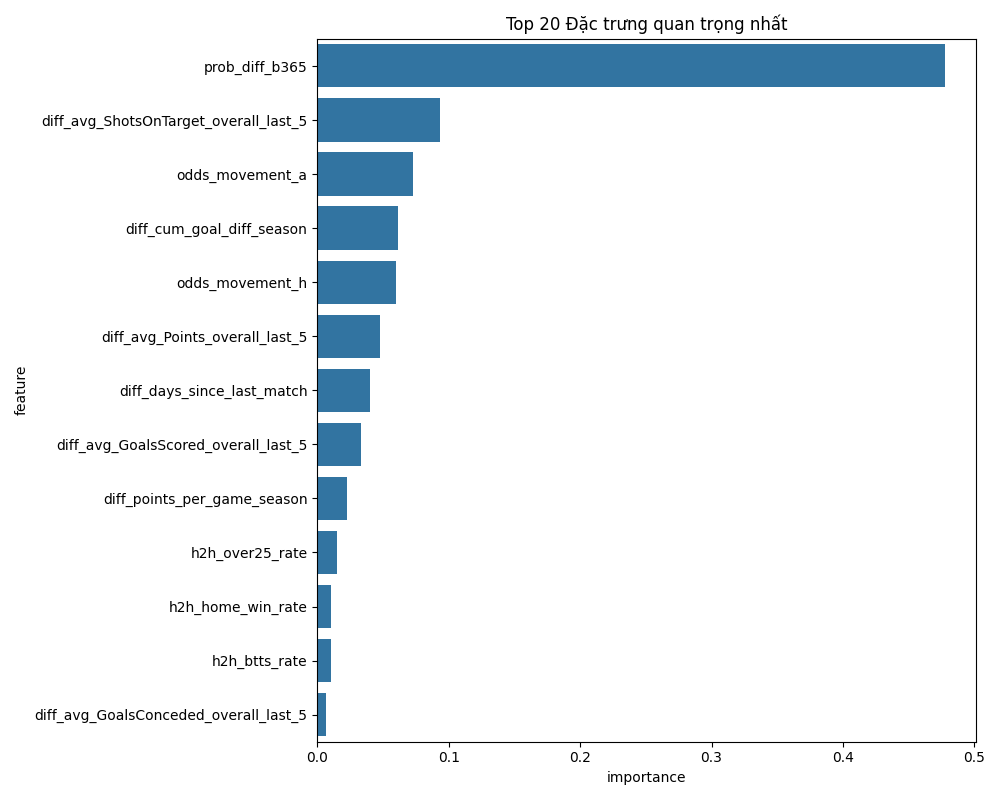
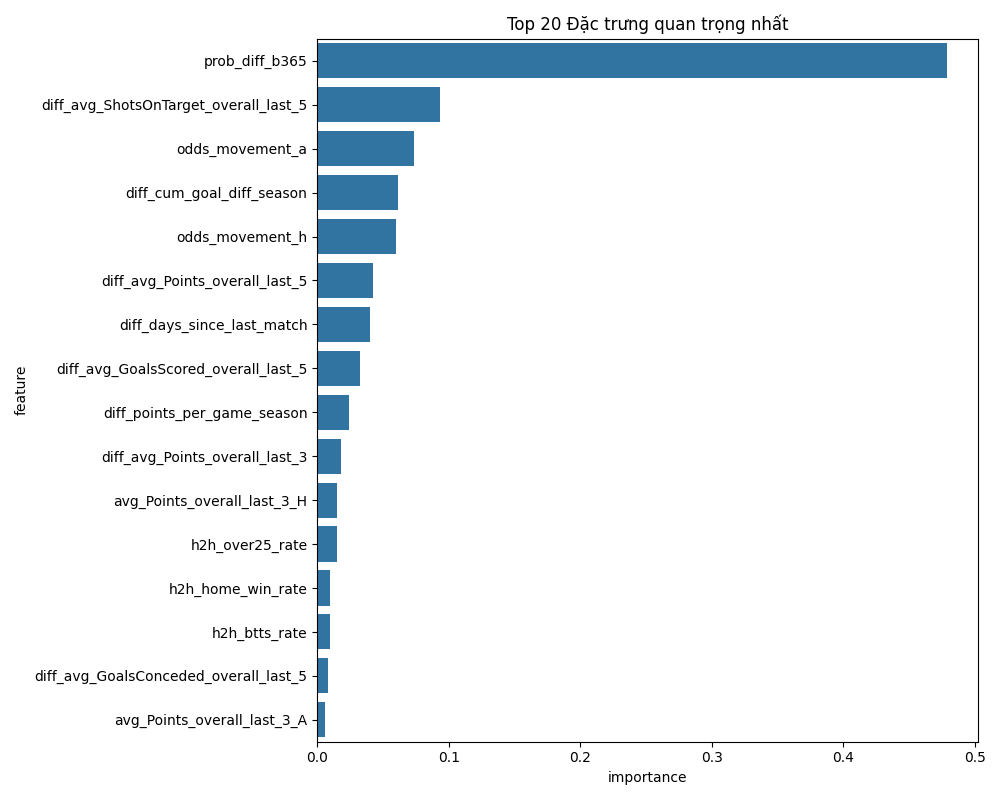
DONE

diff --git a/ai-engine/scripts/predict_new_match.py b/ai-engine/scripts/predict_new_match.py
@@ -1,0 +1,212 @@
+# filename: predict_new_match.py
+
+import pandas as pd
+import numpy as np
+import joblib
+from pathlib import Path
+
+# --- CẤU HÌNH ---
+# Giả sử script này nằm trong thư mục gốc của dự án
+BASE_DIR = Path(__file__).resolve().parent
+PROCESSED_DATA_DIR = BASE_DIR / "data" / "processed"
+MODEL_DIR = BASE_DIR / "models"
+BEST_MODEL_DIR = MODEL_DIR / "best_models"
+
+# ---------------------------------------------------------------------------- #
+#  CÁC HÀM TẠO ĐẶC TRƯNG - SAO CHÉP TỪ CÁC SCRIPT TRƯỚC ĐỂ ĐẢM BẢO TÍNH NHẤT QUÁN  #
+# ---------------------------------------------------------------------------- #
+
+# Các hàm từ 03_create_basic_features.py (hoặc 04 theo cách đánh số cũ)
+def create_betting_features(df):
+    odds_sources = {'b365': ['B365H', 'B365D', 'B365A'], 'ps_close': ['PSCH', 'PSCD', 'PSCA'], 'ps_open': ['PSH', 'PSD', 'PSA']}
+    for source, cols in odds_sources.items():
+        H, D, A = cols[0], cols[1], cols[2]
+        if all(c in df.columns for c in cols):
+            prob_h, prob_d, prob_a = f'prob_{source}_h', f'prob_{source}_d', f'prob_{source}_a'
+            df[prob_h], df[prob_d], df[prob_a] = 1/df[H], 1/df[D], 1/df[A]
+            df[f'margin_{source}'] = df[[prob_h, prob_d, prob_a]].sum(axis=1) - 1
+            df[f'prob_diff_{source}'] = df[prob_h] - df[prob_a]
+    if all(c in df.columns for c in ['PSCH', 'PSH']): df['odds_movement_h'] = df['PSCH'] - df['PSH']
+    if all(c in df.columns for c in ['PSCD', 'PSD']): df['odds_movement_d'] = df['PSCD'] - df['PSD']
+    if all(c in df.columns for c in ['PSCA', 'PSA']): df['odds_movement_a'] = df['PSCA'] - df['PSA']
+    return df
+
+def create_time_features(df):
+    df['date_month'] = df['Date'].dt.month
+    df['date_day_of_week'] = df['Date'].dt.dayofweek
+    df['date_is_weekend'] = (df['date_day_of_week'] >= 5).astype(int)
+    def get_season_stage(month):
+        if month in [8, 9, 10]: return 'early';
+        elif month in [11, 12, 1, 2]: return 'mid';
+        else: return 'late'
+    df['season_stage'] = df['date_month'].apply(get_season_stage)
+    df = pd.get_dummies(df, columns=['season_stage'], prefix='stage', dtype=int)
+    return df
+
+# Các hàm từ 04_create_advanced_features.py
+def get_team_level_data(df):
+    df['home_win'] = (df['FTR'] == 'H').astype(int)
+    df['away_win'] = (df['FTR'] == 'A').astype(int)
+    df['is_draw'] = (df['FTR'] == 'D').astype(int)
+    df['btts'] = ((df['FTHG'] > 0) & (df['FTAG'] > 0)).astype(int)
+    df['over_2_5'] = (df['FTHG'] + df['FTAG'] > 2.5).astype(int)
+    common_cols = ['Date', 'Season', 'FTR', 'home_win', 'away_win', 'is_draw', 'btts', 'over_2_5']
+    home_cols, away_cols = common_cols + ['HomeTeam', 'AwayTeam', 'FTHG', 'FTAG', 'HS', 'AS', 'HST', 'AST'], common_cols + ['AwayTeam', 'HomeTeam', 'FTAG', 'FTHG', 'AS', 'HS', 'AST', 'HST']
+    home_df, away_df = df[home_cols].copy(), df[away_cols].copy()
+    new_col_names = ['Date', 'Season', 'FTR', 'home_win', 'away_win', 'is_draw', 'btts', 'over_2_5', 'Team', 'Opponent', 'GoalsScored', 'GoalsConceded', 'Shots', 'ShotsAllowed', 'ShotsOnTarget', 'ShotsOnTargetAllowed']
+    home_df.columns, away_df.columns = new_col_names, new_col_names
+    home_df['Venue'], away_df['Venue'] = 'H', 'A'
+    home_df['Points'], away_df['Points'] = np.where(home_df['FTR'] == 'H', 3, np.where(home_df['FTR'] == 'D', 1, 0)), np.where(away_df['FTR'] == 'A', 3, np.where(away_df['FTR'] == 'D', 1, 0))
+    home_df['Win'], away_df['Win'] = home_df['home_win'], away_df['away_win']
+    home_df['CleanSheet'], away_df['CleanSheet'] = (home_df['GoalsConceded'] == 0).astype(int), (away_df['GoalsConceded'] == 0).astype(int)
+    team_df = pd.concat([home_df, away_df], ignore_index=True).sort_values(['Team', 'Date']).reset_index(drop=True)
+    return team_df
+
+def calculate_rolling_features(team_df, windows=[5, 10], venue_specific=False):
+    group_cols, prefix = ['Team'], 'overall'
+    if venue_specific: group_cols.append('Venue'); prefix = 'venue'
+    cols_to_roll = ['GoalsScored', 'GoalsConceded', 'Points', 'Win', 'Shots', 'ShotsOnTarget', 'CleanSheet']
+    for window in windows:
+        for col in cols_to_roll:
+            team_df[f'avg_{col}_{prefix}_last_{window}'] = team_df.groupby(group_cols)[col].transform(lambda x: x.rolling(window, min_periods=1).mean().shift(1))
+    return team_df
+
+def calculate_cumulative_features(team_df):
+    team_df['matches_played_season'] = team_df.groupby(['Season', 'Team']).cumcount()
+    team_df['points_per_game_season'] = team_df.groupby(['Season', 'Team'])['Points'].transform(lambda x: x.expanding().mean().shift(1))
+    team_df['goal_diff_season'] = (team_df['GoalsScored'] - team_df['GoalsConceded'])
+    team_df['cum_goal_diff_season'] = team_df.groupby(['Season', 'Team'])['goal_diff_season'].transform(lambda x: x.expanding().sum().shift(1))
+    team_df['days_since_last_match'] = team_df.groupby('Team')['Date'].diff().dt.days
+    return team_df
+
+def create_h2h_features(df):
+    df['matchup'] = df.apply(lambda row: tuple(sorted((row['HomeTeam'], row['AwayTeam']))), axis=1)
+    h2h_stats = df.copy().sort_values('Date')
+    h2h_stats['h2h_matches_played'] = h2h_stats.groupby('matchup').cumcount()
+    if h2h_stats['h2h_matches_played'].sum() > 0:
+        h2h_stats['h2h_home_win_rate'] = (h2h_stats.groupby('matchup')['home_win'].cumsum().shift(1) / h2h_stats['h2h_matches_played'])
+        h2h_stats['h2h_btts_rate'] = (h2h_stats.groupby('matchup')['btts'].cumsum().shift(1) / h2h_stats['h2h_matches_played'])
+        h2h_stats['h2h_over25_rate'] = (h2h_stats.groupby('matchup')['over_2_5'].cumsum().shift(1) / h2h_stats['h2h_matches_played'])
+    h2h_cols_to_merge = [col for col in h2h_stats.columns if 'h2h_' in col]
+    key_cols = ['Date', 'HomeTeam', 'AwayTeam']
+    df = pd.merge(df, h2h_stats[key_cols + h2h_cols_to_merge], on=key_cols, how='left')
+    return df
+
+# Hàm từ 05_create_composite_features.py
+def create_difference_features(df):
+    home_cols = [col for col in df.columns if col.endswith('_H')]
+    for col_h in home_cols:
+        col_base, col_a = col_h[:-2], f'{col_h[:-2]}_A'
+        if col_a in df.columns: df[f'diff_{col_base}'] = df[col_h] - df[col_a]
+    return df
+
+# ------------------------------------------------------------------------- #
+#              HÀM DỰ ĐOÁN CHÍNH (THE INFERENCE PIPELINE)                   #
+# ------------------------------------------------------------------------- #
+
+def predict_match(home_team: str, away_team: str, match_date_str: str, historical_df: pd.DataFrame):
+    """
+    Dự đoán kết quả cho một trận đấu mới.
+    """
+    print(f"\n--- Bắt đầu dự đoán cho trận: {home_team} vs {away_team} vào ngày {match_date_str} ---")
+    
+    # 1. Chuẩn bị dữ liệu
+    match_date = pd.to_datetime(match_date_str)
+    # Lấy TẤT CẢ dữ liệu lịch sử TRƯỚC ngày trận đấu
+    df_history = historical_df[historical_df['Date'] < match_date].copy()
+    
+    # Tạo một dòng dữ liệu tạm cho trận đấu mới để nối vào cuối
+    new_match_data = {'Date': [match_date], 'HomeTeam': [home_team], 'AwayTeam': [away_team]}
+    new_match_df = pd.DataFrame(new_match_data)
+    
+    # Nối trận mới vào cuối dữ liệu lịch sử để tính toán
+    full_df = pd.concat([df_history, new_match_df], ignore_index=True)
+    
+    # 2. Tái tạo lại toàn bộ quy trình Feature Engineering
+    print("   -> Tái tạo các đặc trưng...")
+    
+    # Lấy các odds gần nhất cho trận đấu mới (giả định)
+    # Trong thực tế, bạn sẽ lấy odds từ API
+    last_home_odds = df_history[df_history['HomeTeam'] == home_team].iloc[-1]
+    last_away_odds = df_history[df_history['AwayTeam'] == away_team].iloc[-1]
+    odds_cols = [c for c in df_history.columns if any(p in c for p in ['B365', 'PSH', 'PSD', 'PSA', 'PSCH', 'PSCD', 'PSCA'])]
+    for col in odds_cols:
+        # Ưu tiên lấy odds từ lần gần nhất đội đó đá
+        if col.startswith(('B365H', 'PSH', 'PSCH')):
+            full_df.loc[full_df.index[-1], col] = last_home_odds[col]
+        elif col.startswith(('B365A', 'PSA', 'PSCA')):
+            full_df.loc[full_df.index[-1], col] = last_away_odds[col]
+        else: # B365D, PSD
+            full_df.loc[full_df.index[-1], col] = last_home_odds[col]
+
+    full_df = create_betting_features(full_df)
+    
+    team_df = get_team_level_data(full_df)
+    team_df = calculate_rolling_features(team_df, windows=[5, 10], venue_specific=False)
+    team_df = calculate_rolling_features(team_df, windows=[5, 10], venue_specific=True)
+    team_df = calculate_cumulative_features(team_df)
+    
+    feature_cols = [col for col in team_df.columns if any(p in col for p in ['avg_', 'cum_', 'matches_played', 'points_per_game', 'days_since'])]
+    team_features = team_df[['Date', 'Team'] + feature_cols].drop_duplicates(subset=['Date', 'Team'], keep='last')
+    
+    full_df = pd.merge(full_df, team_features, left_on=['Date', 'HomeTeam'], right_on=['Date', 'Team'], how='left').rename(columns={col: f'{col}_H' for col in feature_cols}).drop(columns='Team')
+    full_df = pd.merge(full_df, team_features, left_on=['Date', 'AwayTeam'], right_on=['Date', 'Team'], how='left').rename(columns={col: f'{col}_A' for col in feature_cols}).drop(columns='Team')
+    
+    full_df = create_h2h_features(full_df)
+    full_df = create_difference_features(full_df)
+    full_df.fillna(0, inplace=True)
+
+    # 3. Trích xuất dòng đặc trưng cuối cùng cho trận đấu mới
+    match_features = full_df.iloc[-1:]
+    
+    # 4. Tải mô hình và dự đoán
+    print("   -> Tải mô hình và đưa ra dự đoán...")
+    pipeline = joblib.load(BEST_MODEL_DIR / "best_lr_pipeline.pkl")
+    le = joblib.load(MODEL_DIR / "baseline_models" / "label_encoder.pkl")
+    
+    X_predict = match_features.drop(columns=['Date', 'HomeTeam', 'AwayTeam', 'FTR', 'FTHG', 'FTAG', 'Season', 'btts', 'over_2_5', 'home_win', 'away_win', 'is_draw', 'matchup'], errors='ignore')
+    
+    # Đảm bảo các cột của X_predict khớp với các cột mô hình đã được huấn luyện
+    # Lấy danh sách cột từ scaler trong pipeline
+    trained_cols = pipeline.named_steps['scaler'].get_feature_names_out()
+    X_predict = X_predict[trained_cols]
+    
+    probabilities = pipeline.predict_proba(X_predict)[0]
+    
+    # 5. Trình bày kết quả
+    results = {label: prob for label, prob in zip(le.classes_, probabilities)}
+    
+    print("\n--- KẾT QUẢ DỰ ĐOÁN ---")
+    for outcome, prob in results.items():
+        print(f"   Xác suất cho kết quả '{outcome}': {prob:.2%}")
+        
+    predicted_outcome = le.inverse_transform([np.argmax(probabilities)])[0]
+    print(f"\n   ==> DỰ ĐOÁN CUỐI CÙNG: '{predicted_outcome}'")
+    
+    return results
+
+if __name__ == '__main__':
+    # --- TẢI DỮ LIỆU LỊCH SỬ MỘT LẦN ---
+    try:
+        historical_data = pd.read_csv(PROCESSED_DATA_DIR / "final_cleaned_data.csv", parse_dates=['Date'])
+        print("Đã tải dữ liệu lịch sử thành công.")
+    except FileNotFoundError:
+        print(f"Lỗi: Không tìm thấy file 'final_cleaned_data.csv'. Vui lòng chạy các script tiền xử lý trước.")
+        exit()
+
+    # --- VÍ DỤ SỬ DỤNG ---
+    # Dự đoán cho một trận đấu trong tương lai
+    predict_match(
+        home_team="Man City", 
+        away_team="Arsenal", 
+        match_date_str="2024-08-18", 
+        historical_df=historical_data
+    )
+    
+    # Dự đoán cho một trận đấu khác
+    predict_match(
+        home_team="Liverpool", 
+        away_team="Man United", 
+        match_date_str="2024-09-01", 
+        historical_df=historical_data
+    )

diff --git a/ai-engine/preprocessing/processing_data/10_LG_hyperparameter_tuning.py b/ai-engine/preprocessing/processing_data/10_LG_hyperparameter_tuning.py
@@ -1,3 +1,7 @@
+"""
+Dùng mô hình Logistic Regression
+"""
+
 import pandas as pd
 import joblib
 import json
@@ -28,8 +32,8 @@ def main():
     
     # 1. Đọc và kết hợp dữ liệu
     try:
-        train_df = pd.read_csv(PROCESSED_DATA_DIR / "train_data.csv", parse_dates=['Date'])
-        val_df = pd.read_csv(PROCESSED_DATA_DIR / "val_data.csv", parse_dates=['Date'])
+        train_df = pd.read_csv(PROCESSED_DATA_DIR / "train_data_v2.csv", parse_dates=['Date'])
+        val_df = pd.read_csv(PROCESSED_DATA_DIR / "val_data_v2.csv", parse_dates=['Date'])
         tuning_df = pd.concat([train_df, val_df], ignore_index=True).sort_values('Date')
         print("1. Đã kết hợp dữ liệu train và validation để tuning.")
     except FileNotFoundError as e:
@@ -40,11 +44,11 @@ def main():
     X_tuning, y_tuning_raw = prepare_data(tuning_df)
     
     try:
-        le = joblib.load(MODEL_DIR / "baseline_models" / "label_encoder.pkl")
+        le = joblib.load(MODEL_DIR / "baseline_models_v2" / "label_encoder.pkl")
         y_tuning = le.transform(y_tuning_raw)
         print("2. Đã chuẩn bị dữ liệu và tải LabelEncoder.")
     except FileNotFoundError:
-        print("Lỗi: Không tìm thấy label_encoder.pkl. Vui lòng chạy script 10 trước.")
+        print("Lỗi: Không tìm thấy label_encoder.pkl. Vui lòng chạy script 09 trước.")
         return
 
     # 3. Thiết lập chiến lược Cross-Validation theo thời gian
@@ -90,14 +94,14 @@ def main():
     # Bỏ tiền tố 'model__'
     best_params_to_save = {k.split('__')[1]: v for k, v in grid_search.best_params_.items()}
 
-    with open(BEST_MODEL_DIR / "best_lr_params.json", 'w') as f:
+    with open(BEST_MODEL_DIR / "best_lr_params_v2.json", 'w') as f:
         json.dump(best_params_to_save, f, indent=4)
-    print(f"Đã lưu bộ tham số tại: {BEST_MODEL_DIR / 'best_lr_params.json'}")
+    print(f"Đã lưu bộ tham số tại: {BEST_MODEL_DIR / 'best_lr_params_v2.json'}")
 
     # Lưu pipeline tốt nhất (bao gồm cả scaler đã được huấn luyện trên toàn bộ dữ liệu tuning)
     best_pipeline = grid_search.best_estimator_
-    joblib.dump(best_pipeline, BEST_MODEL_DIR / "best_lr_pipeline.pkl")
-    print(f"Đã lưu pipeline tốt nhất tại: {BEST_MODEL_DIR / 'best_lr_pipeline.pkl'}")
+    joblib.dump(best_pipeline, BEST_MODEL_DIR / "best_lr_pipeline_v2.pkl")
+    print(f"Đã lưu pipeline tốt nhất tại: {BEST_MODEL_DIR / 'best_lr_pipeline_v2.pkl'}")
     
     print("\n--- HOÀN TẤT ---")
 

diff --git a/ai-engine/preprocessing/processing_data/11_final_evaluation.py b/ai-engine/preprocessing/processing_data/11_final_evaluation.py
@@ -61,9 +61,9 @@ def main():
     # 1. Tải các thành phần cần thiết
     try:
         print("1. Tải mô hình, dữ liệu test và label encoder...")
-        pipeline = joblib.load(BEST_MODEL_DIR / "best_lr_pipeline.pkl")
-        test_df = pd.read_csv(PROCESSED_DATA_DIR / "test_data.csv", parse_dates=['Date'])
-        le = joblib.load(MODEL_DIR / "baseline_models" / "label_encoder.pkl")
+        pipeline = joblib.load(BEST_MODEL_DIR / "best_lr_pipeline_v2.pkl")
+        test_df = pd.read_csv(PROCESSED_DATA_DIR / "test_data_v2.csv", parse_dates=['Date'])
+        le = joblib.load(MODEL_DIR / "baseline_models_v2" / "label_encoder.pkl")
         print("   -> Tải thành công.")
     except FileNotFoundError as e:
         print(f"LỖI: Không tìm thấy file cần thiết. Vui lòng chạy các script trước. Chi tiết: {e}")
@@ -93,8 +93,8 @@ def main():
     print(f"   -> Log Loss: {loss:.4f}")
     print("\nBáo cáo chi tiết (Classification Report):\n", report_text)
     # ... (Lưu báo cáo JSON) ...
-    final_evaluation = {'model_name': 'best_lr_pipeline.pkl', 'accuracy': accuracy, 'log_loss': loss, 'classification_report': report_dict}
-    with open(REPORTS_DIR / "final_evaluation_report.json", 'w') as f: json.dump(final_evaluation, f, indent=4)
+    final_evaluation = {'model_name': 'best_lr_pipeline_v2.pkl', 'accuracy': accuracy, 'log_loss': loss, 'classification_report': report_dict}
+    with open(REPORTS_DIR / "final_evaluation_report_v2.json", 'w') as f: json.dump(final_evaluation, f, indent=4)
     print("   -> Báo cáo đánh giá đã được lưu vào file JSON.")
     
     # 5. Phân tích Ma trận nhầm lẫn
@@ -128,7 +128,7 @@ def main():
     analysis_df['Is_Correct'] = (analysis_df['FTR'] == analysis_df['Predicted_FTR']).astype(int)
     
     # Lưu file phân tích
-    analysis_output_path = REPORTS_DIR / "prediction_analysis.csv"
+    analysis_output_path = REPORTS_DIR / "prediction_analysis_v2.csv"
     analysis_df.to_csv(analysis_output_path, index=False)
     
     print(f"   -> Đã lưu file phân tích chi tiết tại: '{analysis_output_path}'")

diff --git a/ai-engine/preprocessing/processing_data/09_train_baselines.py b/ai-engine/preprocessing/processing_data/09_train_baselines.py
@@ -17,7 +17,7 @@ from lightgbm import LGBMClassifier
 # --- CẤU HÌNH ---
 BASE_DIR = Path(__file__).resolve().parent.parent.parent
 PROCESSED_DATA_DIR = BASE_DIR / "data" / "processed"
-MODEL_DIR = BASE_DIR / "models" / "baseline_models"
+MODEL_DIR = BASE_DIR / "models" / "baseline_models_v2"
 MODEL_DIR.mkdir(parents=True, exist_ok=True)
 
 # Các cột cần loại bỏ trước khi huấn luyện
@@ -37,8 +37,8 @@ def main():
     
     # 1. Đọc dữ liệu
     try:
-        train_df = pd.read_csv(PROCESSED_DATA_DIR / "train_data.csv", parse_dates=['Date'])
-        val_df = pd.read_csv(PROCESSED_DATA_DIR / "val_data.csv", parse_dates=['Date'])
+        train_df = pd.read_csv(PROCESSED_DATA_DIR / "train_data_v2.csv", parse_dates=['Date'])
+        val_df = pd.read_csv(PROCESSED_DATA_DIR / "val_data_v2.csv", parse_dates=['Date'])
         print("1. Đã đọc thành công dữ liệu train và validation.")
     except FileNotFoundError as e:
         print(f"Lỗi: không tìm thấy file dữ liệu. Vui lòng chạy script 08 trước. Chi tiết: {e}")

diff --git a/ai-engine/preprocessing/processing_data/03_create_basic_features.py b/ai-engine/preprocessing/processing_data/03_create_basic_features.py
@@ -11,6 +11,9 @@ INPUT_FILE_PATH = PROCESSED_DATA_DIR / INPUT_FILENAME
 OUTPUT_FILENAME = "features_part1.csv"
 OUTPUT_FILE_PATH = PROCESSED_DATA_DIR / OUTPUT_FILENAME
 
+
+
+
 def create_betting_features(df):
     """Tạo các đặc trưng từ tỷ lệ cược (Task 3.4)."""
     print("  - Creating betting odds features...")

diff --git a/ai-engine/preprocessing/processing_data/02_apply_cleaning_strategy.py b/ai-engine/preprocessing/processing_data/02_apply_cleaning_strategy.py
@@ -67,6 +67,7 @@ OUTPUT_FILENAME = "final_cleaned_data.csv" # file này đã loại boc các cộ
 OUTPUT_FILE_PATH = PROCESSED_DATA_DIR / OUTPUT_FILENAME
 
 
+
 def apply_cleaning_strategy(df, strategy):
     """
     Áp dụng chiến lược làm sạch được định nghĩa vào DataFrame.
